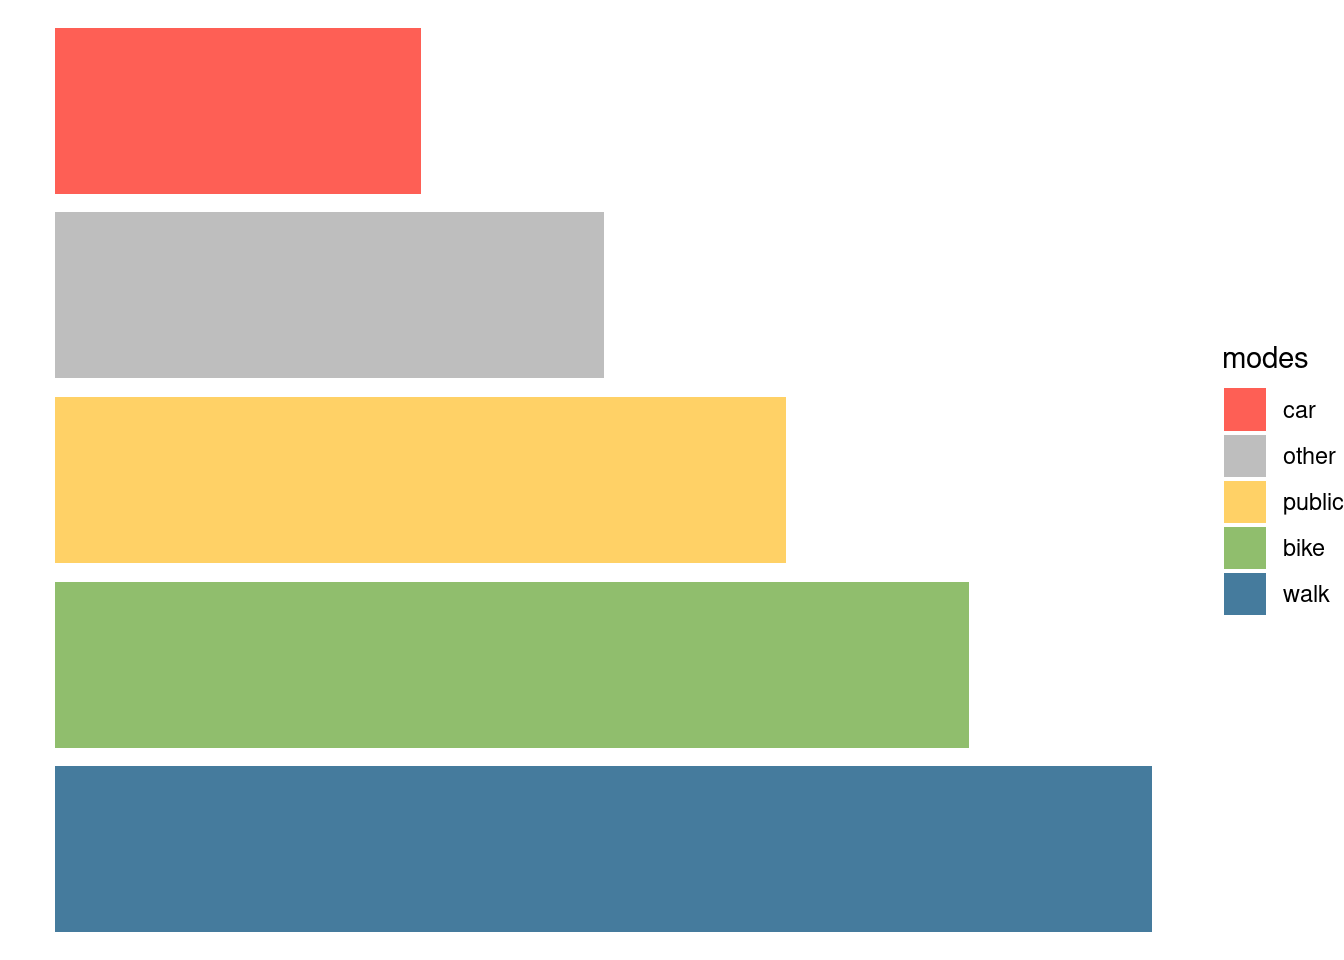
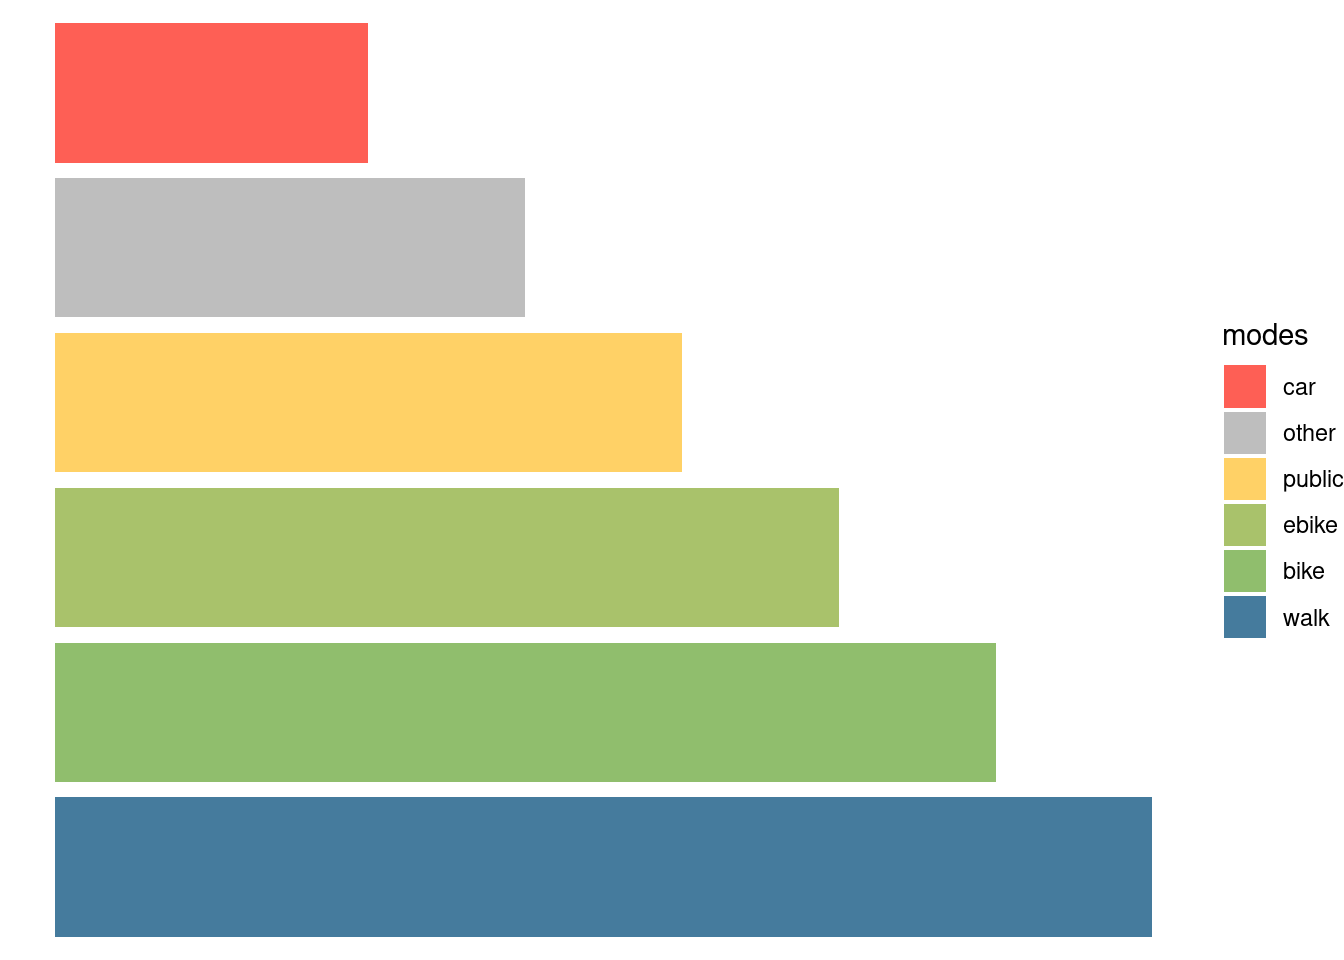
Update palette

Changed region(s): [[0.0312, 0.0, 0.875, 0.8438], [0.9062, 0.3438, 1.0, 0.6875], [0.0312, 0.9688, 0.8438, 1.0]]

diff --git a/README.html b/README.html
@@ -11,69 +11,6 @@
     div.column{display: inline-block; vertical-align: top; width: 50%;}
     div.hanging-indent{margin-left: 1.5em; text-indent: -1.5em;}
     ul.task-list{list-style: none;}
-    pre > code.sourceCode { white-space: pre; position: relative; }
-    pre > code.sourceCode > span { display: inline-block; line-height: 1.25; }
-    pre > code.sourceCode > span:empty { height: 1.2em; }
-    .sourceCode { overflow: visible; }
-    code.sourceCode > span { color: inherit; text-decoration: inherit; }
-    div.sourceCode { margin: 1em 0; }
-    pre.sourceCode { margin: 0; }
-    @media screen {
-    div.sourceCode { overflow: auto; }
-    }
-    @media print {
-    pre > code.sourceCode { white-space: pre-wrap; }
-    pre > code.sourceCode > span { text-indent: -5em; padding-left: 5em; }
-    }
-    pre.numberSource code
-      { counter-reset: source-line 0; }
-    pre.numberSource code > span
-      { position: relative; left: -4em; counter-increment: source-line; }
-    pre.numberSource code > span > a:first-child::before
-      { content: counter(source-line);
-        position: relative; left: -1em; text-align: right; vertical-align: baseline;
-        border: none; display: inline-block;
-        -webkit-touch-callout: none; -webkit-user-select: none;
-        -khtml-user-select: none; -moz-user-select: none;
-        -ms-user-select: none; user-select: none;
-        padding: 0 4px; width: 4em;
-        color: #aaaaaa;
-      }
-    pre.numberSource { margin-left: 3em; border-left: 1px solid #aaaaaa;  padding-left: 4px; }
-    div.sourceCode
-      {   }
-    @media screen {
-    pre > code.sourceCode > span > a:first-child::before { text-decoration: underline; }
-    }
-    code span.al { color: #ff0000; font-weight: bold; } /* Alert */
-    code span.an { color: #60a0b0; font-weight: bold; font-style: italic; } /* Annotation */
-    code span.at { color: #7d9029; } /* Attribute */
-    code span.bn { color: #40a070; } /* BaseN */
-    code span.bu { } /* BuiltIn */
-    code span.cf { color: #007020; font-weight: bold; } /* ControlFlow */
-    code span.ch { color: #4070a0; } /* Char */
-    code span.cn { color: #880000; } /* Constant */
-    code span.co { color: #60a0b0; font-style: italic; } /* Comment */
-    code span.cv { color: #60a0b0; font-weight: bold; font-style: italic; } /* CommentVar */
-    code span.do { color: #ba2121; font-style: italic; } /* Documentation */
-    code span.dt { color: #902000; } /* DataType */
-    code span.dv { color: #40a070; } /* DecVal */
-    code span.er { color: #ff0000; font-weight: bold; } /* Error */
-    code span.ex { } /* Extension */
-    code span.fl { color: #40a070; } /* Float */
-    code span.fu { color: #06287e; } /* Function */
-    code span.im { } /* Import */
-    code span.in { color: #60a0b0; font-weight: bold; font-style: italic; } /* Information */
-    code span.kw { color: #007020; font-weight: bold; } /* Keyword */
-    code span.op { color: #666666; } /* Operator */
-    code span.ot { color: #007020; } /* Other */
-    code span.pp { color: #bc7a00; } /* Preprocessor */
-    code span.sc { color: #4070a0; } /* SpecialChar */
-    code span.ss { color: #bb6688; } /* SpecialString */
-    code span.st { color: #4070a0; } /* String */
-    code span.va { color: #19177c; } /* Variable */
-    code span.vs { color: #4070a0; } /* VerbatimString */
-    code span.wa { color: #60a0b0; font-weight: bold; font-style: italic; } /* Warning */
   </style>
 
   <script src="README_files/libs/clipboard/clipboard.min.js"></script>
@@ -95,82 +32,59 @@
 
 <main class="content" id="quarto-document-content">
 <div class="cell">
-<div class="sourceCode" id="cb1"><pre class="sourceCode r cell-code code-with-copy"><code class="sourceCode r"><span id="cb1-1"><a href="#cb1-1" aria-hidden="true" tabindex="-1"></a><span class="co"># Basic transport colours</span></span>
-<span id="cb1-2"><a href="#cb1-2" aria-hidden="true" tabindex="-1"></a>mode_cols <span class="ot">=</span> <span class="fu">c</span>(</span>
-<span id="cb1-3"><a href="#cb1-3" aria-hidden="true" tabindex="-1"></a>  <span class="at">car =</span> <span class="st">"#fe5f55"</span>,</span>
-<span id="cb1-4"><a href="#cb1-4" aria-hidden="true" tabindex="-1"></a>  <span class="at">other =</span> <span class="st">"#BEBEBE"</span>,</span>
-<span id="cb1-5"><a href="#cb1-5" aria-hidden="true" tabindex="-1"></a>  <span class="at">public =</span> <span class="st">"#ffd166"</span>,</span>
-<span id="cb1-6"><a href="#cb1-6" aria-hidden="true" tabindex="-1"></a>  <span class="at">bike =</span> <span class="st">"#90be6d"</span>,</span>
-<span id="cb1-7"><a href="#cb1-7" aria-hidden="true" tabindex="-1"></a>  <span class="at">walk =</span> <span class="st">"#457b9d"</span></span>
-<span id="cb1-8"><a href="#cb1-8" aria-hidden="true" tabindex="-1"></a>  )</span>
-<span id="cb1-9"><a href="#cb1-9" aria-hidden="true" tabindex="-1"></a><span class="co"># colorspace::demoplot(rev(mode_cols), type = "bar")</span></span>
-<span id="cb1-10"><a href="#cb1-10" aria-hidden="true" tabindex="-1"></a><span class="co"># plot(names(mode_cols), 1:length(mode_cols))</span></span>
-<span id="cb1-11"><a href="#cb1-11" aria-hidden="true" tabindex="-1"></a>mode_cols_df <span class="ot">=</span> <span class="fu">tibble</span>(</span>
-<span id="cb1-12"><a href="#cb1-12" aria-hidden="true" tabindex="-1"></a>  <span class="at">modes =</span> <span class="fu">factor</span>(<span class="fu">names</span>(mode_cols), <span class="at">ordered =</span> <span class="cn">TRUE</span>, <span class="at">levels =</span> <span class="fu">names</span>(mode_cols)),</span>
-<span id="cb1-13"><a href="#cb1-13" aria-hidden="true" tabindex="-1"></a>  <span class="at">colors =</span> mode_cols, <span class="at">n =</span> <span class="dv">2</span><span class="sc">:</span><span class="dv">6</span></span>
-<span id="cb1-14"><a href="#cb1-14" aria-hidden="true" tabindex="-1"></a>  )</span>
-<span id="cb1-15"><a href="#cb1-15" aria-hidden="true" tabindex="-1"></a><span class="fu">ggplot</span>(mode_cols_df) <span class="sc">+</span></span>
-<span id="cb1-16"><a href="#cb1-16" aria-hidden="true" tabindex="-1"></a>  <span class="fu">geom_bar</span>(<span class="fu">aes</span>(<span class="fu">rev</span>(modes), n, <span class="at">fill =</span> modes), <span class="at">stat =</span> <span class="st">"identity"</span>) <span class="sc">+</span></span>
-<span id="cb1-17"><a href="#cb1-17" aria-hidden="true" tabindex="-1"></a>  <span class="fu">scale_fill_manual</span>(<span class="at">values =</span> mode_cols_df<span class="sc">$</span>colors) <span class="sc">+</span></span>
-<span id="cb1-18"><a href="#cb1-18" aria-hidden="true" tabindex="-1"></a>  <span class="fu">coord_flip</span>() <span class="sc">+</span></span>
-<span id="cb1-19"><a href="#cb1-19" aria-hidden="true" tabindex="-1"></a>  <span class="fu">theme_void</span>()</span></code><button title="Copy to Clipboard" class="code-copy-button"><i class="bi"></i></button></pre></div>
 <div class="cell-output-display">
 <p><img src="README_files/figure-html/unnamed-chunk-4-1.png" class="img-fluid" width="672"></p>
 </div>
-<div class="sourceCode" id="cb2"><pre class="sourceCode r cell-code code-with-copy"><code class="sourceCode r"><span id="cb2-1"><a href="#cb2-1" aria-hidden="true" tabindex="-1"></a><span class="co">#' Function to extract transportvis colors as hex codes</span></span>
-<span id="cb2-2"><a href="#cb2-2" aria-hidden="true" tabindex="-1"></a><span class="co">#'</span></span>
-<span id="cb2-3"><a href="#cb2-3" aria-hidden="true" tabindex="-1"></a><span class="co">#' @param ... Character names of transportvis_colors </span></span>
-<span id="cb2-4"><a href="#cb2-4" aria-hidden="true" tabindex="-1"></a><span class="co">#'</span></span>
-<span id="cb2-5"><a href="#cb2-5" aria-hidden="true" tabindex="-1"></a>transportvis_cols <span class="ot">&lt;-</span> <span class="cf">function</span>(...) {</span>
-<span id="cb2-6"><a href="#cb2-6" aria-hidden="true" tabindex="-1"></a>  cols <span class="ot">&lt;-</span> <span class="fu">c</span>(...)</span>
-<span id="cb2-7"><a href="#cb2-7" aria-hidden="true" tabindex="-1"></a></span>
-<span id="cb2-8"><a href="#cb2-8" aria-hidden="true" tabindex="-1"></a>  <span class="cf">if</span> (<span class="fu">is.null</span>(cols))</span>
-<span id="cb2-9"><a href="#cb2-9" aria-hidden="true" tabindex="-1"></a>    <span class="fu">return</span> (mode_cols)</span>
-<span id="cb2-10"><a href="#cb2-10" aria-hidden="true" tabindex="-1"></a></span>
-<span id="cb2-11"><a href="#cb2-11" aria-hidden="true" tabindex="-1"></a>  mode_cols[cols]</span>
-<span id="cb2-12"><a href="#cb2-12" aria-hidden="true" tabindex="-1"></a>}</span>
-<span id="cb2-13"><a href="#cb2-13" aria-hidden="true" tabindex="-1"></a></span>
-<span id="cb2-14"><a href="#cb2-14" aria-hidden="true" tabindex="-1"></a></span>
-<span id="cb2-15"><a href="#cb2-15" aria-hidden="true" tabindex="-1"></a><span class="co"># transportvis_cols()</span></span>
-<span id="cb2-16"><a href="#cb2-16" aria-hidden="true" tabindex="-1"></a></span>
-<span id="cb2-17"><a href="#cb2-17" aria-hidden="true" tabindex="-1"></a><span class="co"># transportvis_cols("car")</span></span>
-<span id="cb2-18"><a href="#cb2-18" aria-hidden="true" tabindex="-1"></a><span class="co"># transportvis_cols("red", "blue")</span></span>
-<span id="cb2-19"><a href="#cb2-19" aria-hidden="true" tabindex="-1"></a><span class="co">#&gt;       red      blue </span></span>
-<span id="cb2-20"><a href="#cb2-20" aria-hidden="true" tabindex="-1"></a><span class="co">#&gt; "#d11141" "#00aedb"</span></span>
-<span id="cb2-21"><a href="#cb2-21" aria-hidden="true" tabindex="-1"></a></span>
-<span id="cb2-22"><a href="#cb2-22" aria-hidden="true" tabindex="-1"></a><span class="fu">transportvis_cols</span>(<span class="st">"blue"</span>, <span class="st">"red"</span>)</span></code><button title="Copy to Clipboard" class="code-copy-button"><i class="bi"></i></button></pre></div>
 <div class="cell-output-stdout">
-<pre><code>&lt;NA&gt; &lt;NA&gt; 
-  NA   NA </code></pre>
+<pre><code>{
+  "full": {
+    "car": ["#fe5f55"],
+    "other": ["#BEBEBE"],
+    "public": ["#ffd166"],
+    "ebike": ["#A9C26B"],
+    "bike": ["#90be6d"],
+    "walk": ["#457b9d"]
+  },
+  "main": {
+    "walk": ["#457b9d"],
+    "bike": ["#90be6d"],
+    "other": ["#BEBEBE"],
+    "car": ["#fe5f55"]
+  },
+  "no_transit": {
+    "walk": ["#457b9d"],
+    "bike": ["#90be6d"],
+    "other": ["#BEBEBE"]
+  },
+  "no_other": {
+    "walk": ["#457b9d"],
+    "bike": ["#90be6d"],
+    "public": ["#ffd166"]
+  }
+} </code></pre>
 </div>
-<div class="sourceCode" id="cb4"><pre class="sourceCode r cell-code code-with-copy"><code class="sourceCode r"><span id="cb4-1"><a href="#cb4-1" aria-hidden="true" tabindex="-1"></a><span class="co">#&gt;      blue       red </span></span>
-<span id="cb4-2"><a href="#cb4-2" aria-hidden="true" tabindex="-1"></a><span class="co">#&gt; "#00aedb" "#d11141"</span></span>
-<span id="cb4-3"><a href="#cb4-3" aria-hidden="true" tabindex="-1"></a></span>
-<span id="cb4-4"><a href="#cb4-4" aria-hidden="true" tabindex="-1"></a><span class="co"># It’s already possible to use these manually in plots like this:</span></span>
-<span id="cb4-5"><a href="#cb4-5" aria-hidden="true" tabindex="-1"></a></span>
-<span id="cb4-6"><a href="#cb4-6" aria-hidden="true" tabindex="-1"></a><span class="fu">ggplot</span>(mtcars, <span class="fu">aes</span>(hp, mpg)) <span class="sc">+</span></span>
-<span id="cb4-7"><a href="#cb4-7" aria-hidden="true" tabindex="-1"></a>    <span class="fu">geom_point</span>(<span class="at">color =</span> <span class="fu">transportvis_cols</span>(<span class="st">"red"</span>),</span>
-<span id="cb4-8"><a href="#cb4-8" aria-hidden="true" tabindex="-1"></a>               <span class="at">size =</span> <span class="dv">4</span>, <span class="at">alpha =</span> .<span class="dv">8</span>)</span></code><button title="Copy to Clipboard" class="code-copy-button"><i class="bi"></i></button></pre></div>
-<div class="cell-output-stderr">
-<pre><code>Warning: Removed 32 rows containing missing values (geom_point).</code></pre>
 </div>
+<div class="cell">
+
+</div>
+<div class="cell">
 <div class="cell-output-display">
-<p><img src="README_files/figure-html/unnamed-chunk-4-2.png" class="img-fluid" width="672"></p>
+<p><img src="README_files/figure-html/unnamed-chunk-8-1.png" class="img-fluid" width="672"></p>
 </div>
-<div class="sourceCode" id="cb6"><pre class="sourceCode r cell-code code-with-copy"><code class="sourceCode r"><span id="cb6-1"><a href="#cb6-1" aria-hidden="true" tabindex="-1"></a><span class="co"># Like all great organisations, transportvis Inc has a few main colors (let’s say blue, green, and yellow), but the full list (above) includes other official colors used for a variety of purposes. So we can now create palettes (various combinations) of these colors. Similar to how we deal with colors, first define a list like such:</span></span>
-<span id="cb6-2"><a href="#cb6-2" aria-hidden="true" tabindex="-1"></a></span>
-<span id="cb6-3"><a href="#cb6-3" aria-hidden="true" tabindex="-1"></a>transportvis_palettes <span class="ot">&lt;-</span> <span class="fu">list</span>(</span>
-<span id="cb6-4"><a href="#cb6-4" aria-hidden="true" tabindex="-1"></a>  <span class="st">`</span><span class="at">main</span><span class="st">`</span>  <span class="ot">=</span> <span class="fu">transportvis_cols</span>(<span class="st">"blue"</span>, <span class="st">"green"</span>, <span class="st">"yellow"</span>),</span>
-<span id="cb6-5"><a href="#cb6-5" aria-hidden="true" tabindex="-1"></a></span>
-<span id="cb6-6"><a href="#cb6-6" aria-hidden="true" tabindex="-1"></a>  <span class="st">`</span><span class="at">cool</span><span class="st">`</span>  <span class="ot">=</span> <span class="fu">transportvis_cols</span>(<span class="st">"blue"</span>, <span class="st">"green"</span>),</span>
-<span id="cb6-7"><a href="#cb6-7" aria-hidden="true" tabindex="-1"></a></span>
-<span id="cb6-8"><a href="#cb6-8" aria-hidden="true" tabindex="-1"></a>  <span class="st">`</span><span class="at">hot</span><span class="st">`</span>   <span class="ot">=</span> <span class="fu">transportvis_cols</span>(<span class="st">"yellow"</span>, <span class="st">"orange"</span>, <span class="st">"red"</span>),</span>
-<span id="cb6-9"><a href="#cb6-9" aria-hidden="true" tabindex="-1"></a></span>
-<span id="cb6-10"><a href="#cb6-10" aria-hidden="true" tabindex="-1"></a>  <span class="st">`</span><span class="at">mixed</span><span class="st">`</span> <span class="ot">=</span> <span class="fu">transportvis_cols</span>(<span class="st">"blue"</span>, <span class="st">"green"</span>, <span class="st">"yellow"</span>, <span class="st">"orange"</span>, <span class="st">"red"</span>),</span>
-<span id="cb6-11"><a href="#cb6-11" aria-hidden="true" tabindex="-1"></a></span>
-<span id="cb6-12"><a href="#cb6-12" aria-hidden="true" tabindex="-1"></a>  <span class="st">`</span><span class="at">grey</span><span class="st">`</span>  <span class="ot">=</span> <span class="fu">transportvis_cols</span>(<span class="st">"light grey"</span>, <span class="st">"dark grey"</span>)</span>
-<span id="cb6-13"><a href="#cb6-13" aria-hidden="true" tabindex="-1"></a>)</span></code><button title="Copy to Clipboard" class="code-copy-button"><i class="bi"></i></button></pre></div>
 </div>
+<p>Using linear interpolation the palette can be expanded to cover many modes. Following the example from Simon, we can create plot of car manufacturers with colors adjusting between the main colours as follows.</p>
+<div class="cell">
+<div class="cell-output-display">
+<p><img src="README_files/figure-html/unnamed-chunk-10-1.png" class="img-fluid" width="672"></p>
+</div>
+</div>
+<p>Although the figure is not supposed to be realistic (are Volkswagens really closer to walking than Audis?!) it highlights an important point: mode of transport can be seen as a continuous variable from high speed/weight/power to active modes such as walking. An electric cargo bike is somewhere between a ‘normal’ bike and public/private transport options. Thus we can expand the palette:</p>
+<div class="cell">
+<div class="cell-output-display">
+<p><img src="README_files/figure-html/unnamed-chunk-12-1.png" class="img-fluid" width="672"></p>
+</div>
+</div>
+<p>The above shows the importance of selecting good colours for modes.</p>
 </main>
 <!-- /main column -->
 <script type="application/javascript">
